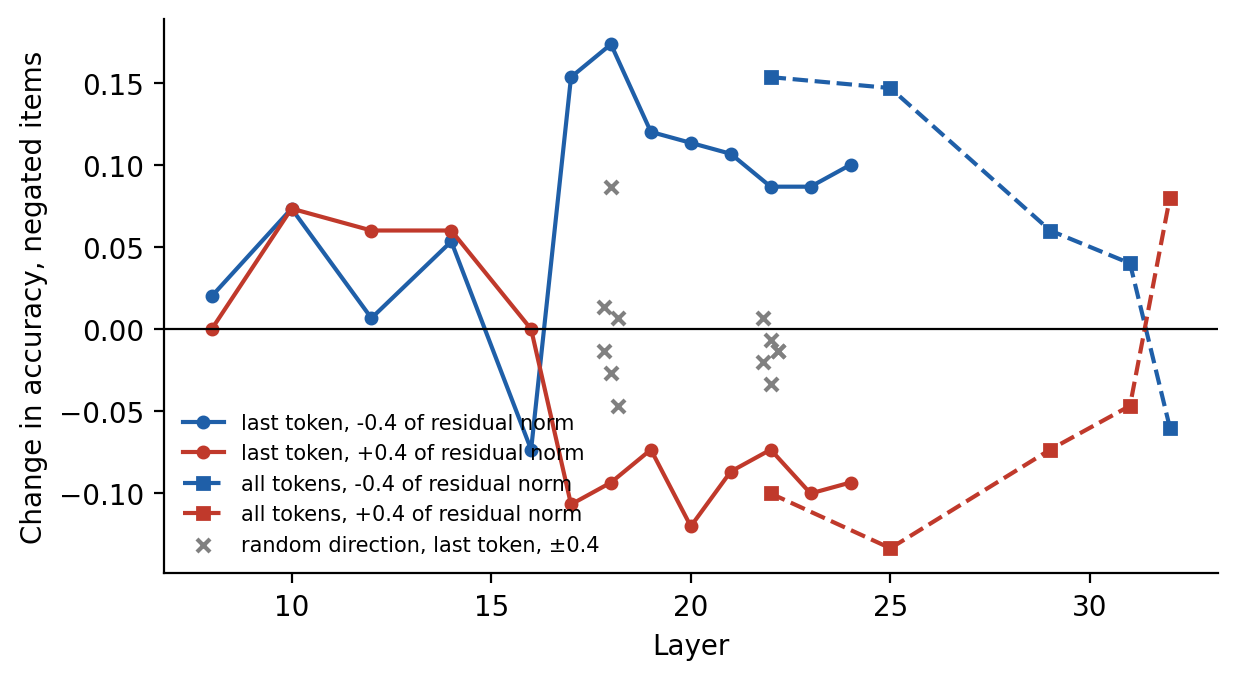
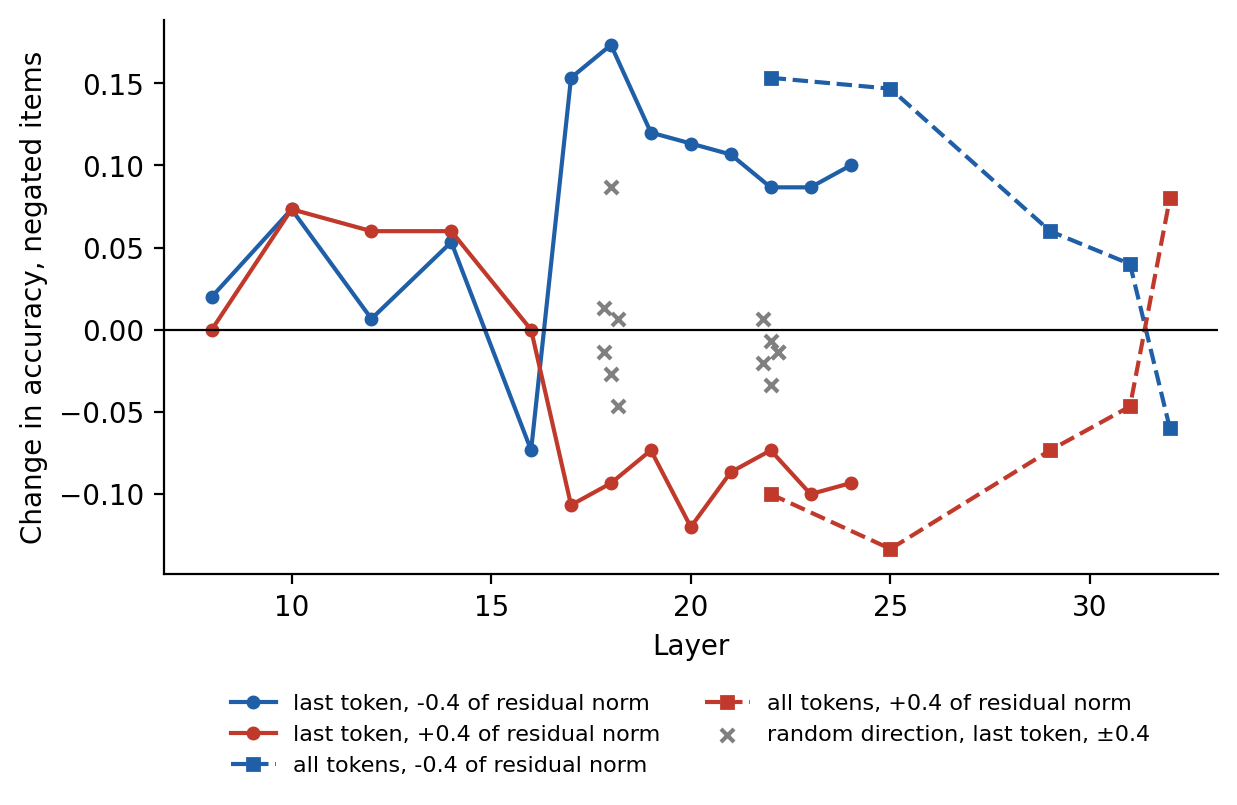
Figure layout fixes

diff --git a/make_figures.py b/make_figures.py
@@ -98,7 +98,7 @@ def layer_sweep():
     ax.axhline(0, color="black", lw=0.8)
     ax.set_xlabel("Layer")
     ax.set_ylabel("Change in accuracy, negated items")
-    ax.legend(fontsize=7.5, frameon=False, loc="lower left")
+    ax.legend(fontsize=8, frameon=False, loc="upper center", bbox_to_anchor=(0.5, -0.18), ncol=2)
     save(fig, "layer-sweep")
 
 
@@ -149,7 +149,7 @@ def wording():
             best[kind][key] = d["best_layer"]
         print("\n%s uses %s" % (kind, load("val_%s_orig" % kind)["vectors"]))
 
-    fig, axes = plt.subplots(1, 3, figsize=(12, 3.4))
+    fig, axes = plt.subplots(1, 3, figsize=(9, 3.2))
     for ax, kind in zip(axes[:2], ("bf16", "mixed")):
         for key, lab in VARIANTS:
             x, y = data[kind][key]
